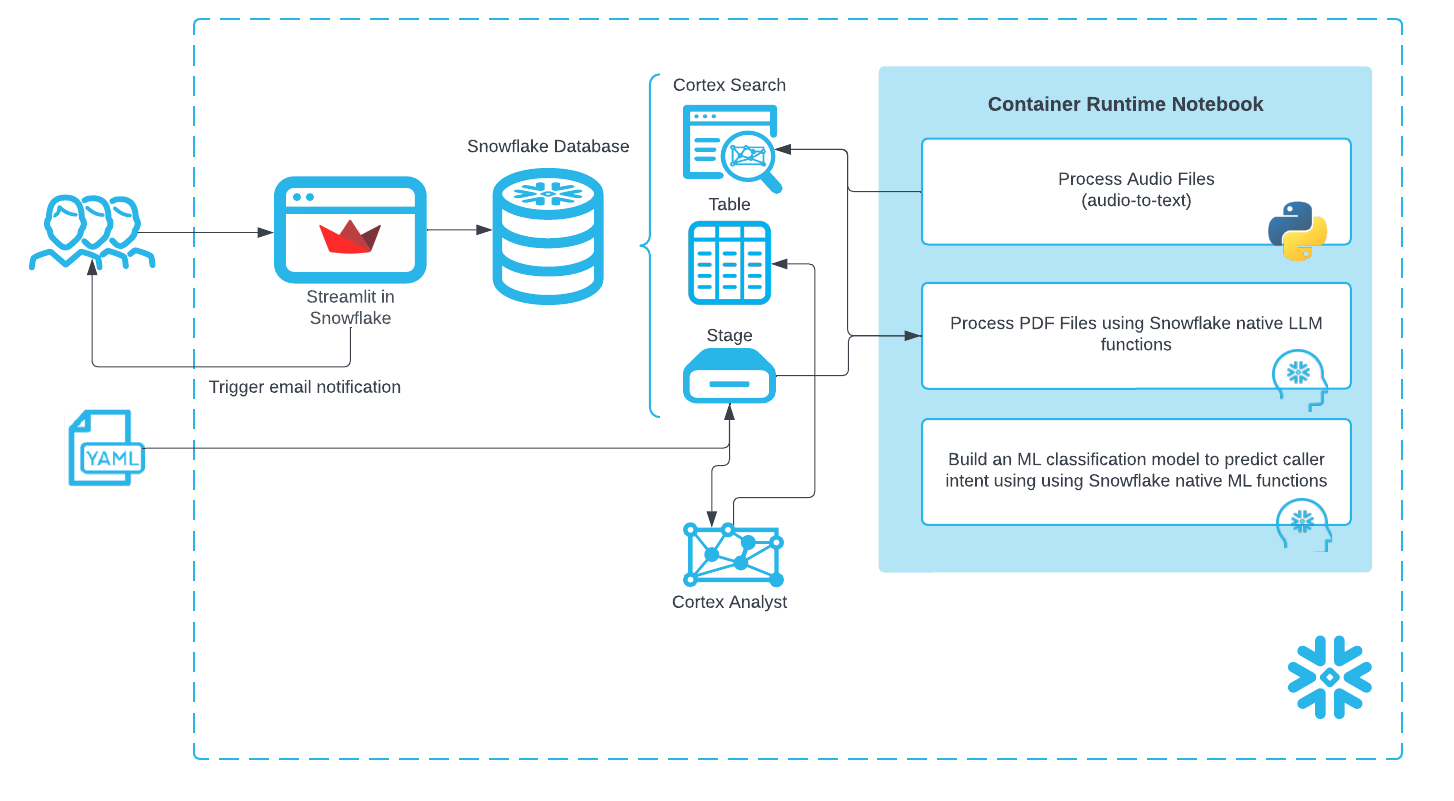
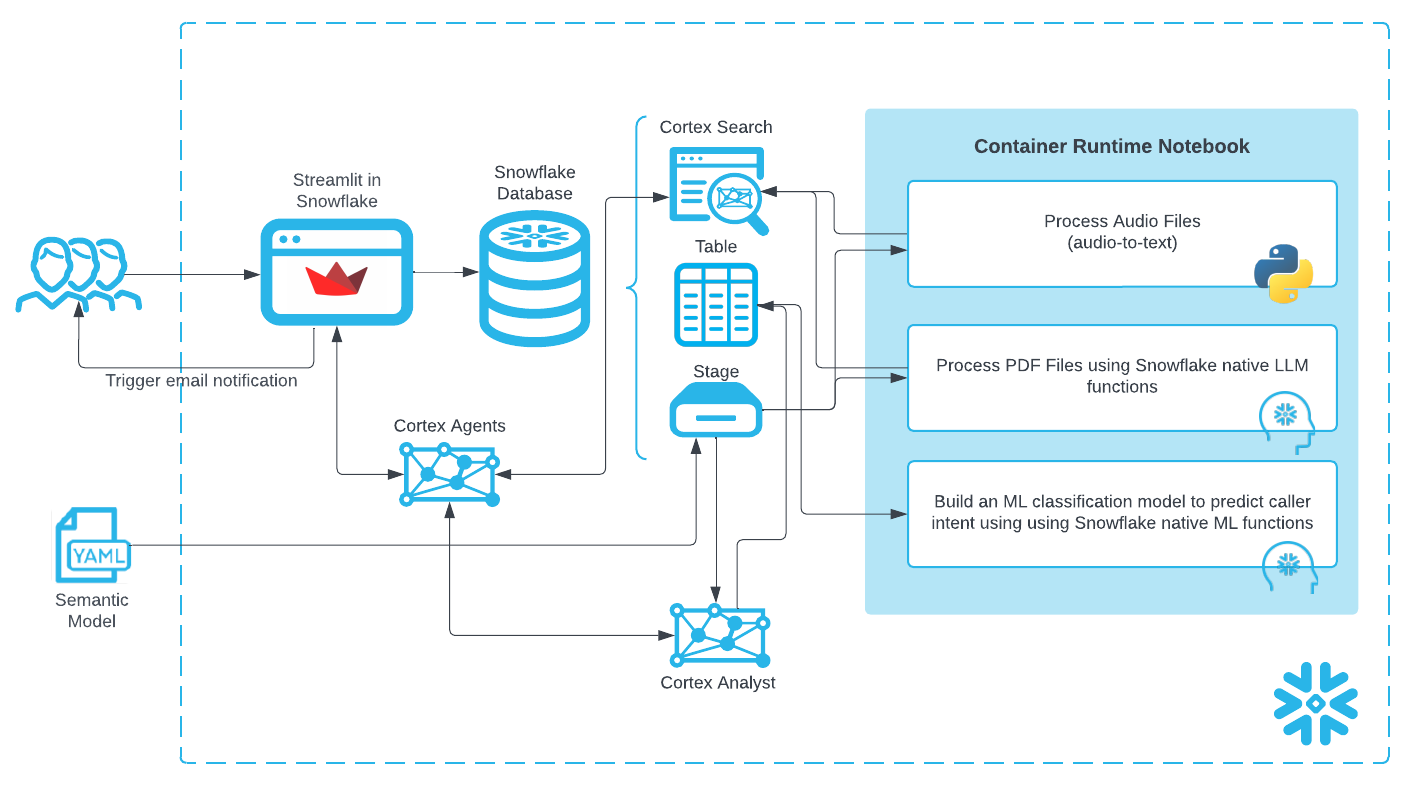
Update with Cortex Agents

diff --git a/site/sfguides/src/ai_agent_health_payers_cc/ai_agent_health_payers_cc.md b/site/sfguides/src/ai_agent_health_payers_cc/ai_agent_health_payers_cc.md
@@ -43,6 +43,7 @@ Based on a detailed study, you have identified key challenges faced by Contact C
 - How to use [Cortex Analyst](https://docs.snowflake.com/user-guide/snowflake-cortex/cortex-analyst?_fsi=6CVthwI0) to help you create applications capable of reliably answering business questions based on your structured data in Snowflake
 - How to use [ML Functions](https://docs.snowflake.com/en/user-guide/ml-functions/classification) to build a classification model in a low-code way
 - How to use [Cortex LLM functions](https://docs.snowflake.com/en/user-guide/snowflake-cortex/llm-functions) (Cortex Complete) for access to industry-leading large language models (LLMs)
+- How to use [Cortex Agents](https://docs.snowflake.com/en/user-guide/snowflake-cortex/cortex-agents) to orchestrate across both structured and unstructured data sources to deliver insights
 - How to build a chatbot application using [Streamlit](https://docs.streamlit.io/) in Snowflake
 
 ### Prerequisites
@@ -53,14 +54,18 @@ Based on a detailed study, you have identified key challenges faced by Contact C
 - A Snowflake Notebook on Container Runtime to process unstructured data (audio files and PDFs) and build a Caller Intent ML Classification Model and execute predictions:
      - Audio-to-text transcription using `whisper`
      - PDF processing and text chunking using Snowflake LLM functions
+- A Cortex Agent to orchestrate across both structured and unstructured data sources to deliver insights
 - A chatbot application using Streamlit
 
 **Architecture Diagram:**
 
 <img src="assets/architecture_diagram.png"/>
 
-A simplified "agentic" workflow ties these features together to provide a single app for end users to use natural language to ask questions and get answers in natural language regardless of whether the underlying data is structured or unstructured.
+The created "Data Agent" ties these features together to provide a single app for end users to use natural language to ask questions and get answers in natural language regardless of whether the underlying data is structured or unstructured.
+
 <img src="assets/payer_cc_agentic.png"/>
+
+**Note:** We also include an older Streamlit app to show how to build an "agentic" workflow without Cortex Agent as well.
 
 ## Data and Snowflake Setup
 
@@ -167,10 +172,10 @@ Click '+ Files' in the top right of the stage. Upload all files that you downloa
 <img src="assets/upload_data_product.png"/>
 <img src="assets/upload_faqs.png"/>
 
-- **Notebook Files:** Upload notebook files (including environment.yml) to the `NOTEBOOK` stage from [notebook](https://github.com/Snowflake-Labs/sfguide-ai-agent-hcls-payers-cc-cortex-notebooks-mlclassification/tree/main/notebooks).
+- **Notebook Files:** Upload notebook files to the `NOTEBOOK` stage from [notebook](https://github.com/Snowflake-Labs/sfguide-ai-agent-hcls-payers-cc-cortex-notebooks-mlclassification/tree/main/notebooks).
 <img src="assets/upload_notebook_files.png"/>
 
-- **Streamlit Files:** Upload all Streamlit and chatbot-related files to the `CHATBOT_APP` stage from [streamlit](https://github.com/Snowflake-Labs/sfguide-ai-agent-hcls-payers-cc-cortex-notebooks-mlclassification/tree/main/scripts/streamlit). Remember to upload [the streamlit-specific environment.yml](https://github.com/Snowflake-Labs/sfguide-ai-agent-hcls-payers-cc-cortex-notebooks-mlclassification/blob/main/scripts/streamlit/environment.yml) file as well.
+- **Streamlit Files:** Upload all Streamlit and chatbot-related files to the `CHATBOT_APP` stage from [streamlit](https://github.com/Snowflake-Labs/sfguide-ai-agent-hcls-payers-cc-cortex-notebooks-mlclassification/tree/main/scripts/streamlit). Remember to upload [the streamlit-specific environment.yml](https://github.com/Snowflake-Labs/sfguide-ai-agent-hcls-payers-cc-cortex-notebooks-mlclassification/blob/main/scripts/streamlit/environment.yml) file as well. You can also upload the older Streamlit app (`payer_assistant_old.py`), which does not use Cortex Agents.
 <img src="assets/upload_streamlit_files.png"/>
 
 Paste and run the following [setup.sql](https://github.com/Snowflake-Labs/sfguide-ai-agent-hcls-payers-cc-cortex-notebooks-mlclassification/blob/main/scripts/setup.sql) in the SQL worksheet to create the Notebooks and Streamlit app from the staged files.
@@ -283,6 +288,12 @@ ROOT_LOCATION = '@PAYERS_CC_DB.PAYERS_CC_SCHEMA.CHATBOT_APP'
 MAIN_FILE = 'payer_assistant.py'
 QUERY_WAREHOUSE = 'PAYERS_CC_WH'
 COMMENT = '{"origin":"sf_sit-is", "name":"payer_call_center_assistant_v2", "version":{"major":1, "minor":0}, "attributes":{"is_quickstart":1, "source":"streamlit"}}';
+
+CREATE OR REPLACE STREAMLIT PAYERS_CC_CHATBOT_OLD
+ROOT_LOCATION = '@PAYERS_CC_DB.PAYERS_CC_SCHEMA.CHATBOT_APP'
+MAIN_FILE = 'payer_assistant_old.py'
+QUERY_WAREHOUSE = 'PAYERS_CC_WH'
+COMMENT = '{"origin":"sf_sit-is", "name":"payer_call_center_assistant_v2", "version":{"major":1, "minor":0}, "attributes":{"is_quickstart":1, "source":"streamlit"}}';
 ```
 
 ## Access Setup Notebook
@@ -309,6 +320,8 @@ This app simulates a few different scenarios where Contact Center Agents have to
 
 <img src='assets/streamlit_app.png'>
 
+You can also open `PAYERS_CC_CHATBOT_OLD` to access the version that does not include Cortex Agents to show you what a more manual "agentic" flow would look like.
+
 ## Conclusion And Resources
 
 Duration: 1
@@ -320,6 +333,7 @@ In this guide, you processed a knowledge base of unstructured and structured Ent
 - How to build a Caller Intent ML Classification Model and execute predictions with low-code using Snowflake's ML Functions
 - How to leverage Cortex Search for a hybrid (vector and keyword) search engine on text data
 - How to use Cortex LLM functions (Cortex Complete) for access to industry-leading large language models (LLMs)
+- How to use Cortex Agents to orchestrate between structured and unstructured data sources
 - How to prototype a UI using Streamlit
 
 ### Related Resources
@@ -327,5 +341,5 @@ In this guide, you processed a knowledge base of unstructured and structured Ent
 - [Docs: Snowflake Cortex](https://docs.snowflake.com/en/user-guide/snowflake-cortex.html)
 - [Docs: Snowflake ML Classification](https://docs.snowflake.com/en/user-guide/ml-functions/classification)
 - [Docs: Streamlit](https://docs.streamlit.io/)
-- [Tasty Bytes: Enhancing Customer Experience](https://quickstarts.snowflake.com/guide/tasty_bytes_customer_experience_app/index.html#0)
-- [Quickstart: Building AI Assistant using Snowflake Cortex in Snowflake Notebooks](https://quickstarts.snowflake.com/guide/ai_assistant_for_sales_calls/index.html#0)
+- [Quickstart: Getting Started with Cortex Agents](https://quickstarts.snowflake.com/guide/getting_started_with_cortex_agents/index.html#0)
+- [Quickstart: Getting Started with Snowflake Cortex Agents API and React](https://quickstarts.snowflake.com/guide/getting_started_with_snowflake_agents_api_and_react/index.html?index=..%2F..index#0)
